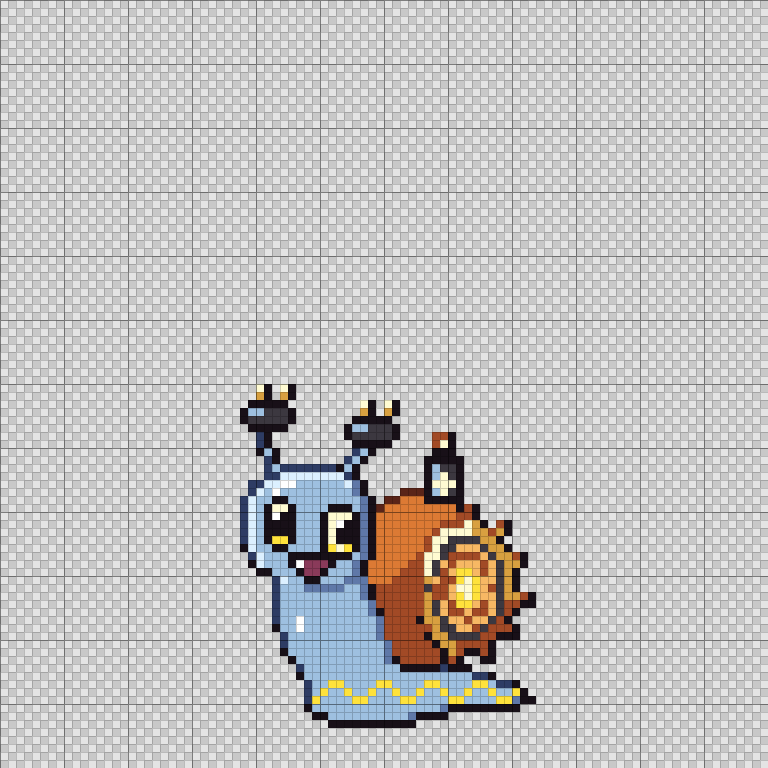
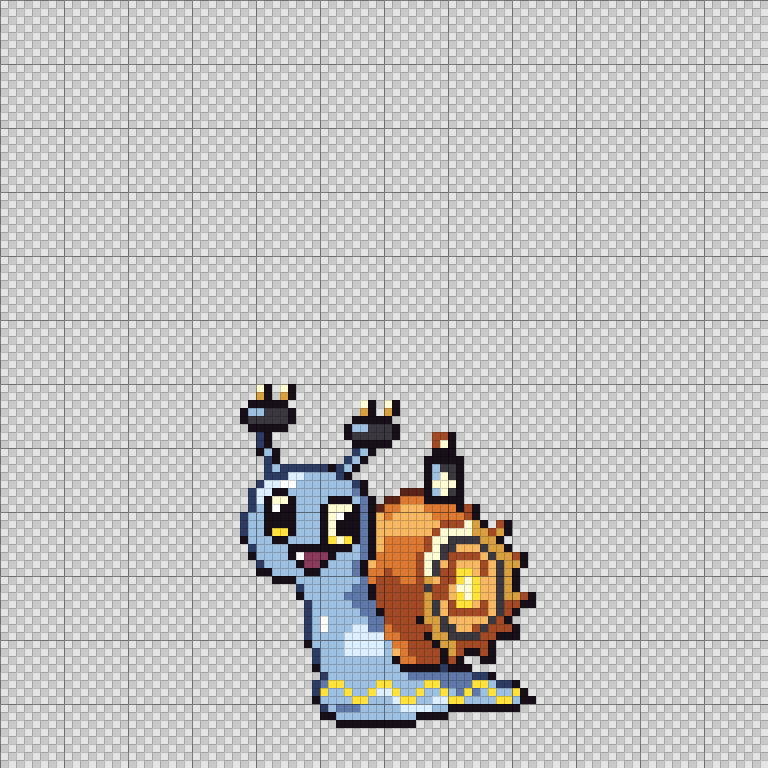
Zapail wip: slimmer neck under an overhanging head (concept silhouette), concept-sampled slime and copper tones, cleaner face
Claude-Session: https://claude.ai/code/session_01NDaBcuNY8LLNS1rzT9Z9Co

diff --git a/art/creatures/wip/zapail_tr.px.js b/art/creatures/wip/zapail_tr.px.js
@@ -32,37 +32,37 @@ sprite("zapail_tr", { w: 96, h: 96 }, (c) => c.grid(30, 48, `
     ..Bk..........kkkkk.....qYk
     ..kak.........Bak.......kkk
     ...Bk........Bak.......kkkkk
-    ...BaBBBBBBBkak........kannk
-    ...BBAAAAAAAABk........kaYnk
-    .BBAAwwaaaaaaAbk.......kYYYk
-    .BAawaaaaaaaaabk....QQQkaYnk
-    BAaakkaaaaaaaaabk.QQoookkkkk
-    BAakYYkaaaakkkabkQoooooooookqk
-    BAakwkkaaakYYYkbkooooooooooqqk
-    BAakkkkaaakYwkkbkooooooooqqqYuk.qk
-    BAakkkkaaakYkkkbkoooooooqYYYYuuquk
-    BAakyykaaakYkkkbkooooooqYYnnnnuuk
-    kAaakkaaaakyYykbkooooooqYnnOOOnuuk
-    .BAaaakkkkkkkkabkoooooqYYnqqqqOnuuqk
-    .kAaaakwmmmkaabkoooooqqYnOqOOOqOnuuk
-    ..kkaaakmmkaaabkooooqqqYnqOyyOqOnuk
-    ....BAaakkaaabbboooqqqquOqqyYyOOnuk
-    ....BaaabbbbbaabkqqqqqqnqqOYYyOqnuk
-    ....BaaaaaaaaaabkqqqqqquqqOyYyOOnuuqk
-    ....BaaaaaaaaaaabqqqqqqunOqyyOqOnqqkk
-    ....BaaaaaaaaaaabkqqqqqunOqqOqqOnqk
-    ....BaawaaaaaaaaabqqqqkuunOOqOOnqk
-    ....kaawaaaaaaaaabqqqqqqunnOOqnqqqk
-    .....Baaaaaaaaaaabqqqqqkuunnnnqqkkk
-    .....Baaaaaaaaaaaabqqqqqkuuqqqqk
-    .....kaaaaaaaaaaaabqqqqqqkuqkkqk
-    ......kaaaaaaaaaaabkqqqqqkqk..kk
-    .......BaaaaaaaaaaaakkkkkBkkk
-    .......kaaaaaaaaaaaaaaaaaaaaaBBk
-    ........BaayyaaaayyaaaayyaaaayyaBBk
-    ........Bayaayaayaayaayaayaayaayaayk
-    ........Byaaaayyaaaayyaaaayyaaaayybkk
-    ........kaaaaaaaaaaaaaaaabkkkkkkkkk
-    .........kkaaaaaaaaaabkkkk
-    ...........kkkkkkkkkkk
+    ...BaBBBBBBkBak........kannk
+    ...BBBAAaaaaBk.........kaYnk
+    ..BAAwwaaaaaaaBk.......kYYYk
+    .BAAkkaaaaaaaabk....QQQkaYnk
+    .BAkYYkaaaakkkabk.QQoookkkkk
+    .BakwkkaaakYYYkbkQooOOOooookqk
+    BaakkkkaaakYwkkbkOoOOOOOooooqk
+    BaakkkkaaakYkkkbkOOOOOOOOqqqYuk.qk
+    BaakyykaaakYkkkbkOOOOOOOqYYYYuuquk
+    kaaakkaaaakyYykbkOoooooqYYnnnnuuk
+    .BaaaakkkkkkkkabkOoooooqYnnOOOnuuk
+    .kaaaakwmmmkaaabkoooooqYYnqqqqOnuuqk
+    ..BaaaakmmkaaabkOoooooqYnOqOOOqOnuuk
+    ..kkaaaakkaaaabkooqoooqYnqqyyOqOnuk
+    ....kkkaaaaaaaaboqqqooquOqqyYyOOnuk
+    .......BaaaaaabbkqqqqqqnqqOYYyOOnuk
+    .......kaaaaabbbkqqqqqquqqOyYyOOnuuqk
+    ........BaaaaabbbqqqqqqunOqyyOqOnqqkk
+    ........BaaaaaabbkqqqqqunOqqqqqOnqk
+    ........BawaaaaabbqqqqkuunOOOOOnqk
+    ........BawaaaAAbboqqqqqunnOOqnqqqk
+    ........BaaaaAAAAAooqqqkuunnnnqqkkk
+    ........kaaaaAAAAAaooqqqkuuqqqqk
+    .........BaaaAAAAAaOoqqqqkuqkkqk
+    .........Baaaaaaaaakooqqqkqk..kk
+    .........kaaaaaaaaaakkkkkBkkk
+    ..........BaaaaaaaaaabbbbbbbbBBk
+    .........BbyyaaaayyaaaayybbbbyyaBBk
+    .........ByaayaayAAyaayaayabybayaayk
+    .........kaaaayyaaaAyyaaAAyyaaaayyakk
+    ..........BabbbaaaaaAAAAaakkkkkkkkk
+    ..........kkaaaaaaaaaakkkk
+    ............kkkkkkkkkk
     .`))
